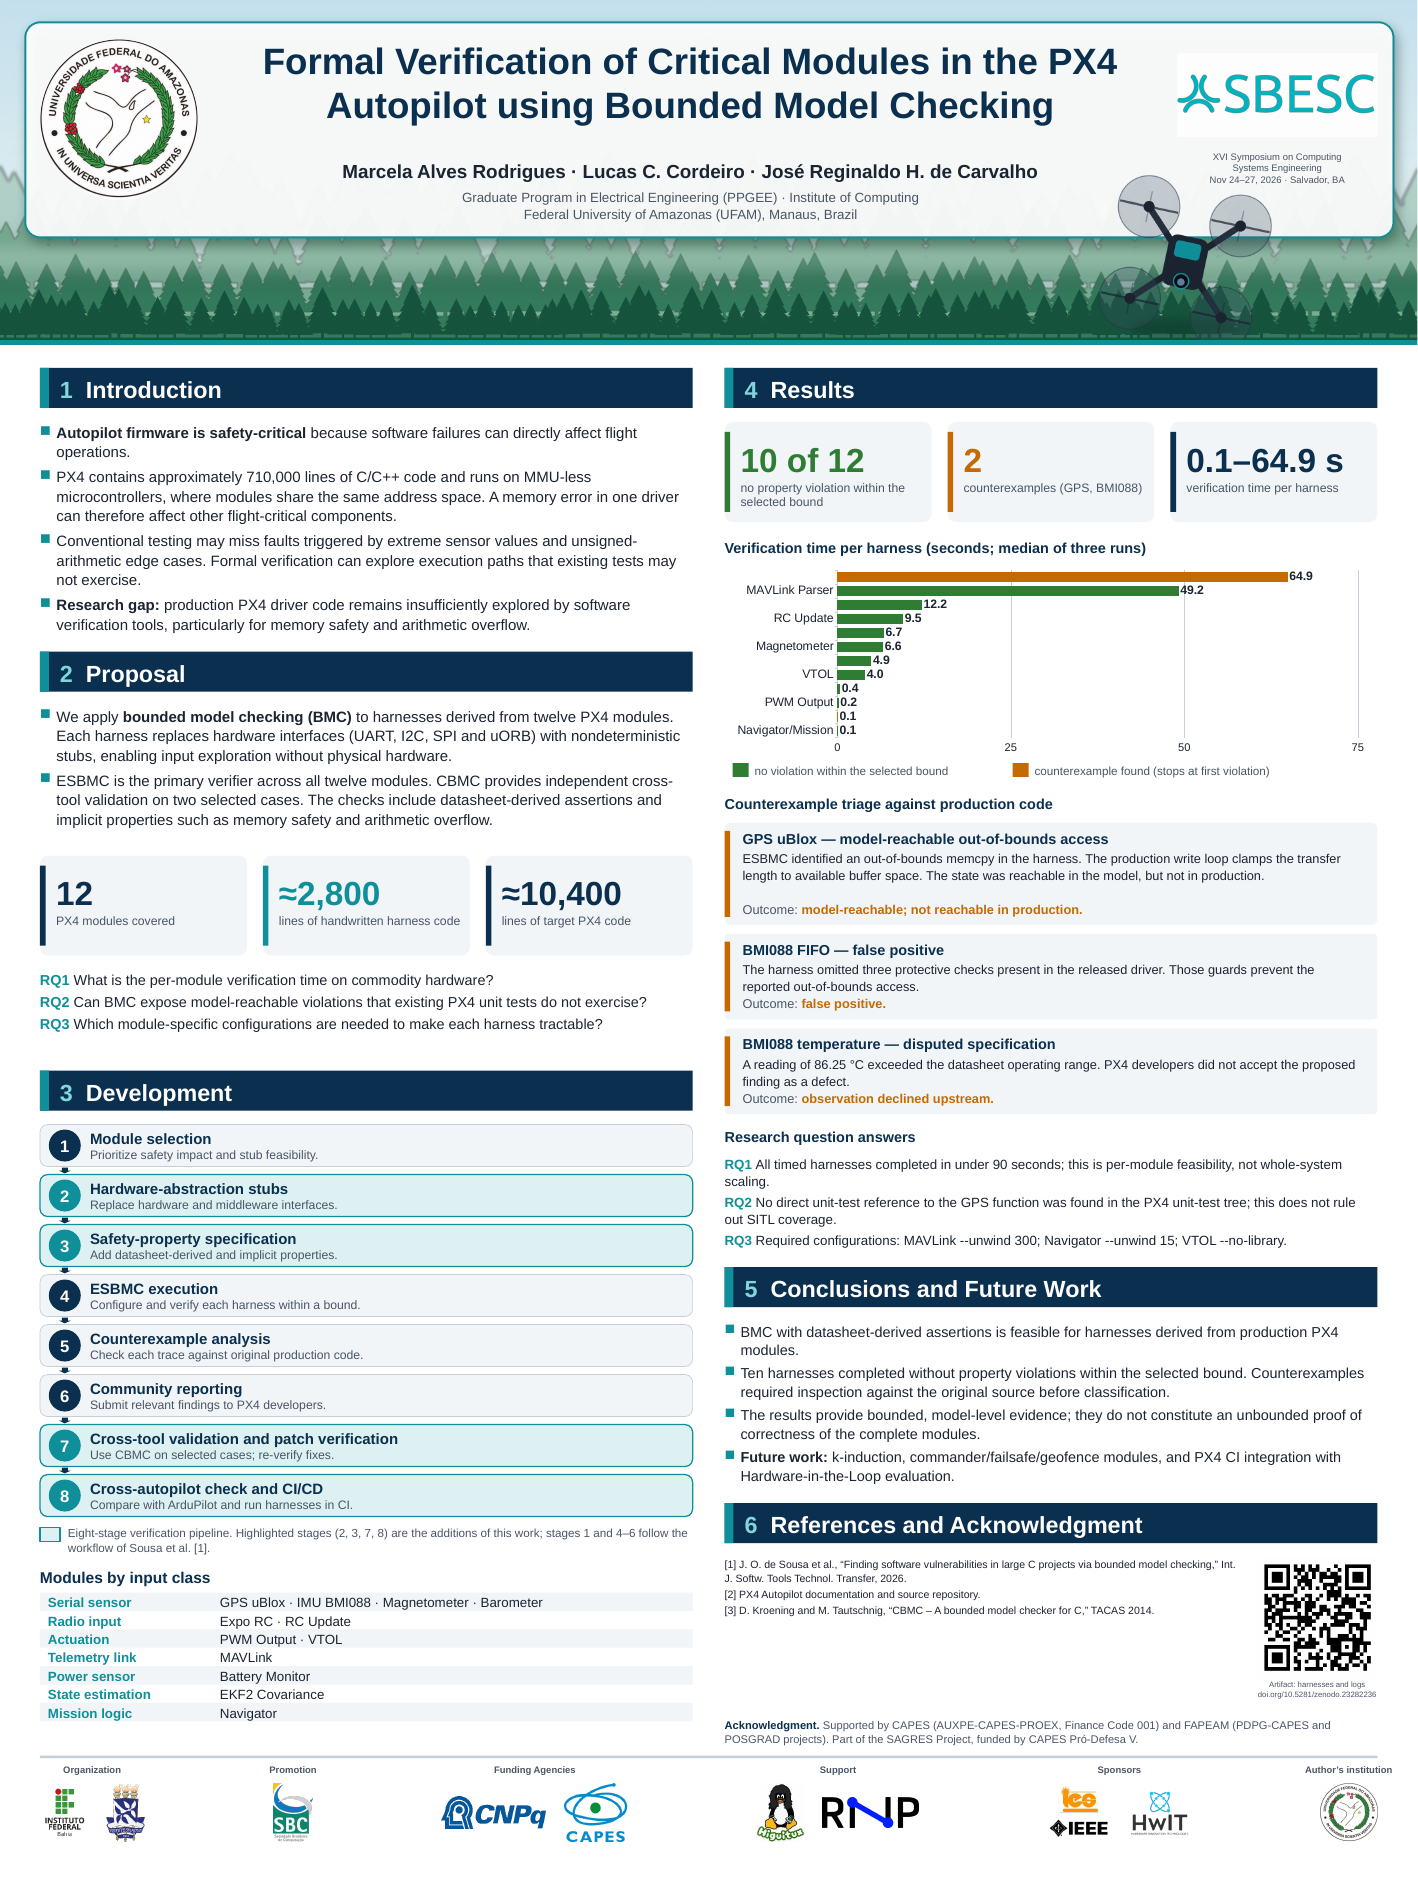
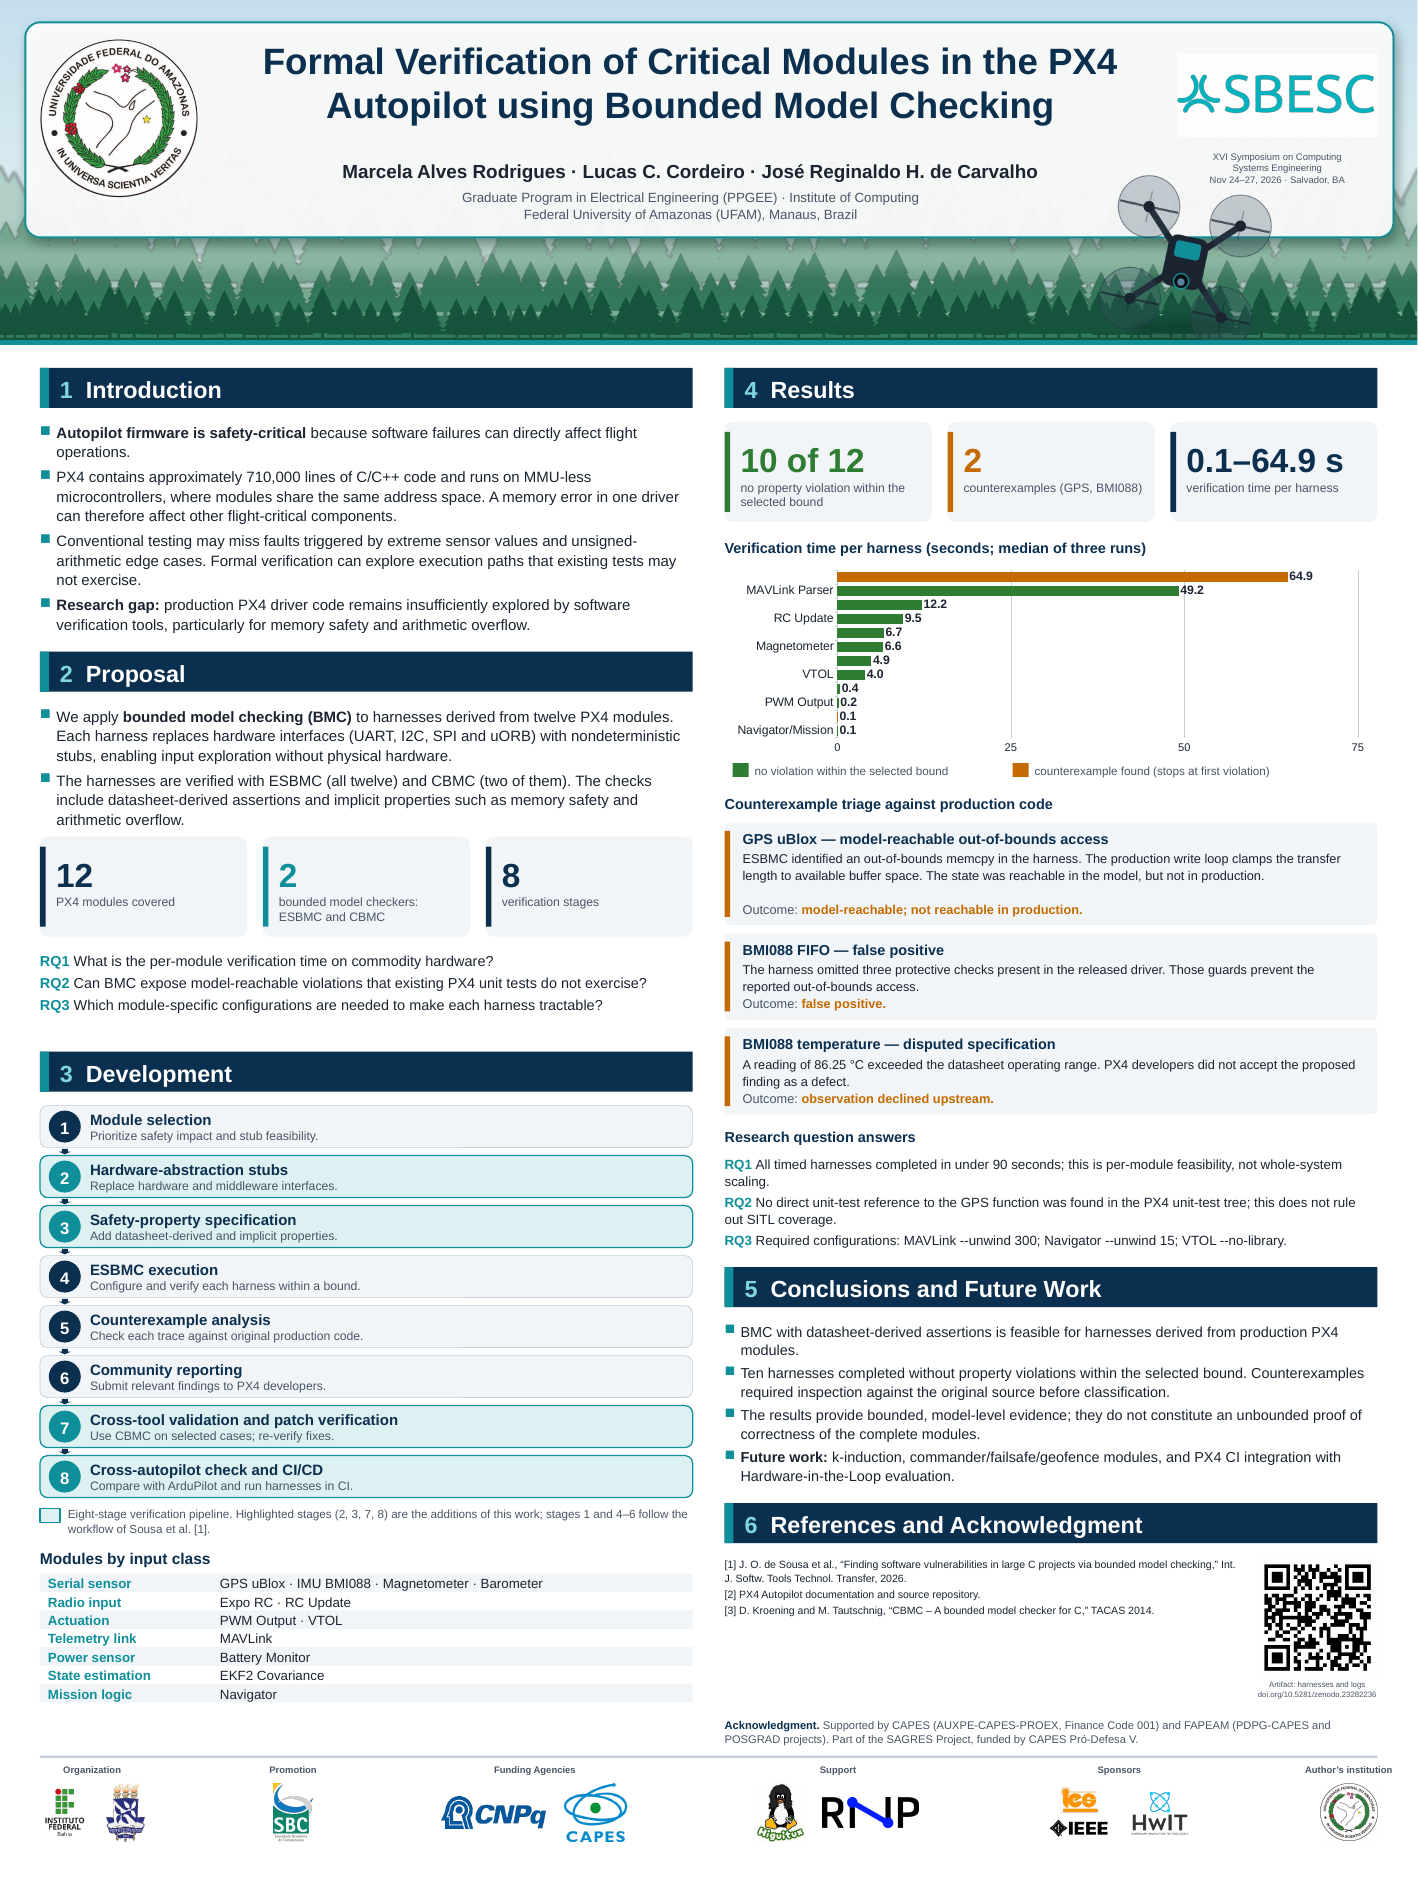
Pôster do SBESC: sem contagem de linhas e sem hierarquia entre verificadores
Claude-Session: https://claude.ai/code/session_01VnA17QaxW1CH4tvc8mDJfC

Changed region(s): [[0.031, 0.4058, 0.4965, 0.9053]]

diff --git a/poster_sbesc/gerar_poster.py b/poster_sbesc/gerar_poster.py
@@ -176,13 +176,13 @@ y = heading(XL, y, 2, "Proposal")
 y = bullets(XL, y, [
     [("We apply ", {}), ("bounded model checking (BMC)", {"bold": True}),
      (" to harnesses derived from twelve PX4 modules. Each harness replaces hardware interfaces (UART, I2C, SPI and uORB) with nondeterministic stubs, enabling input exploration without physical hardware.", {})],
-    "ESBMC is the primary verifier across all twelve modules. CBMC provides independent cross-tool validation on two selected cases. The checks include datasheet-derived assertions and implicit properties such as memory safety and arithmetic overflow.",
+    "The harnesses are verified with ESBMC (all twelve) and CBMC (two of them). The checks include datasheet-derived assertions and implicit properties such as memory safety and arithmetic overflow.",
 ])
 y += 0.15
 tw3 = (CW - 0.8) / 3
 tile(XL, y, tw3, 2.5, "12", "PX4 modules covered")
-tile(XL + tw3 + 0.4, y, tw3, 2.5, "≈2,800", "lines of handwritten harness code", TEAL)
-tile(XL + 2 * (tw3 + 0.4), y, tw3, 2.5, "≈10,400", "lines of target PX4 code")
+tile(XL + tw3 + 0.4, y, tw3, 2.5, "2", "bounded model checkers: ESBMC and CBMC", TEAL)
+tile(XL + 2 * (tw3 + 0.4), y, tw3, 2.5, "8", "verification stages")
 y += 2.5 + 0.35
 rq = [
     [("RQ1 ", {"bold": True, "color": TEAL}), ("What is the per-module verification time on commodity hardware?", {})],
